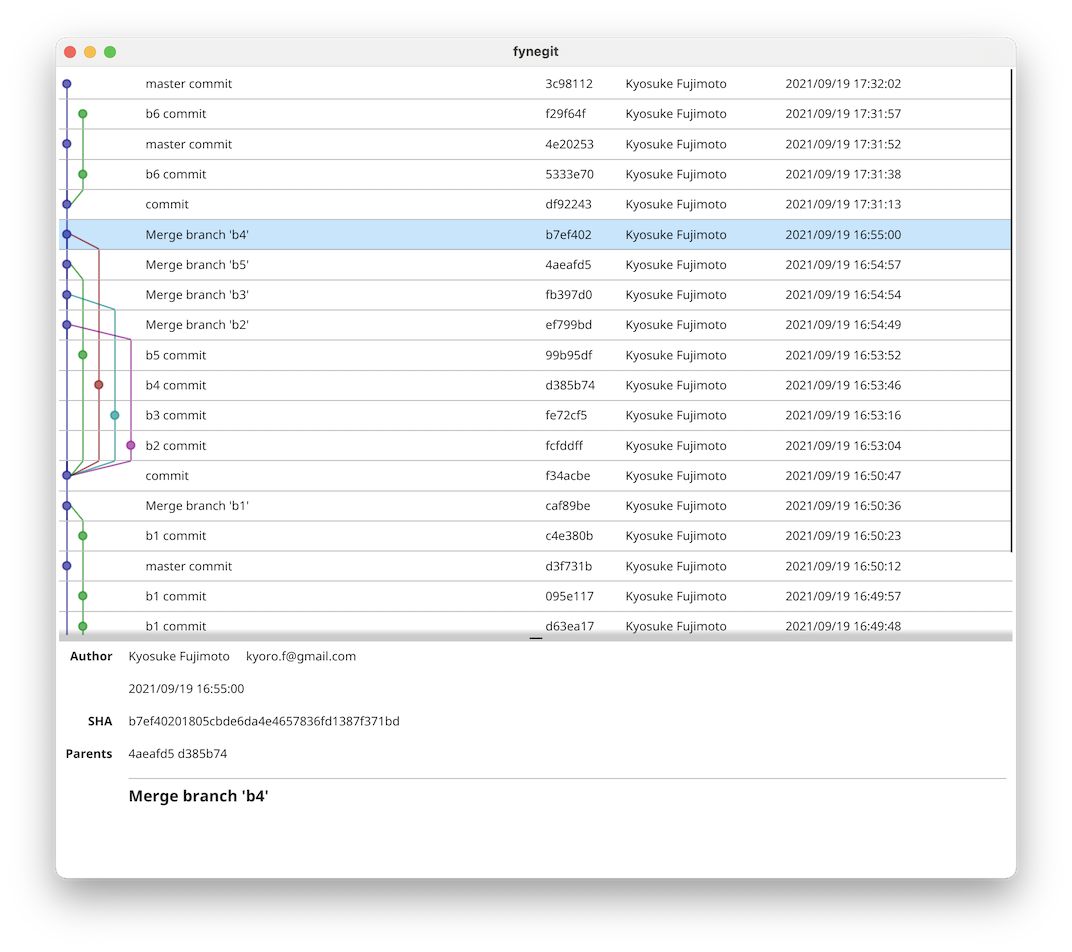
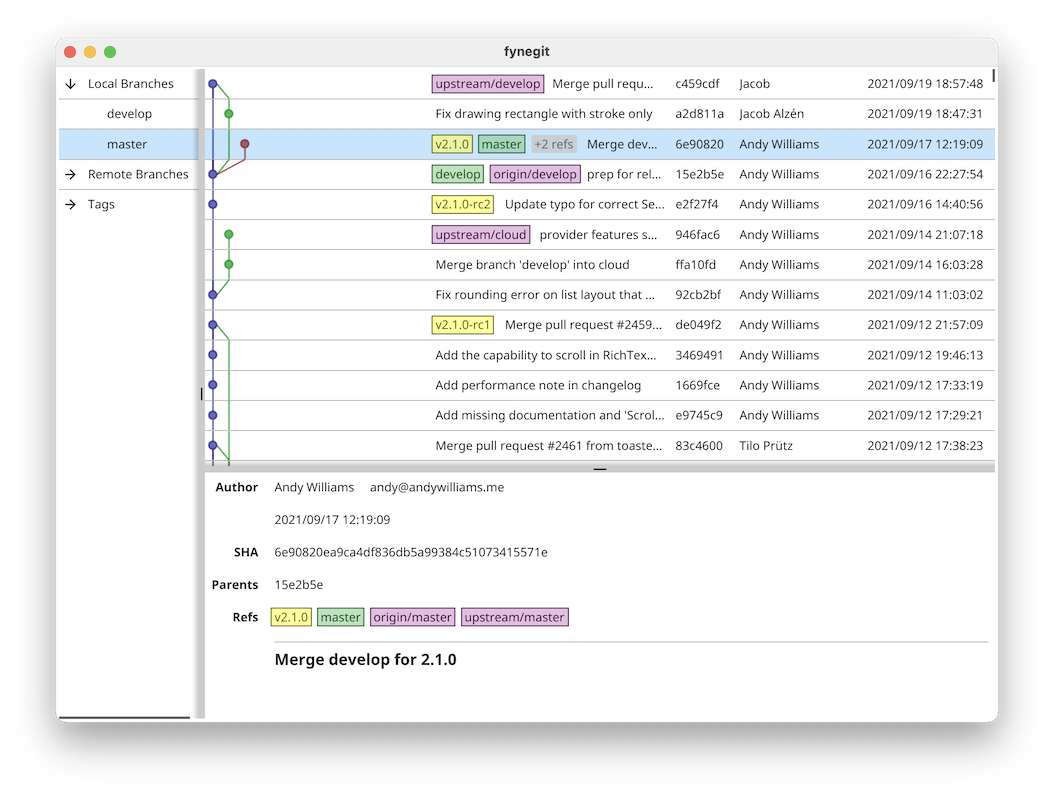
Update README

Changed region(s): [[0.0304, 0.0302, 0.9715, 0.9347]]

diff --git a/README.md b/README.md
@@ -6,6 +6,8 @@ Git GUI client with Go and [Fyne](https://fyne.io)
 
 <img src="./resource/image.png" width=600>
 
+(This screenshot shows [fyne-io/fyne](https://github.com/fyne-io/fyne) repository)
+
 ## Related Projects
 
 - [gogigu](https://github.com/lusingander/gogigu)
